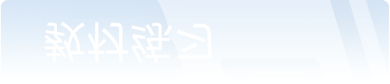
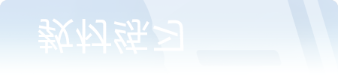
changeIcon

diff --git a/src/components/index/index-content-center.vue b/src/components/index/index-content-center.vue
@@ -68,14 +68,14 @@
         &::before {
           content: '';
           position: absolute;
-          bottom: -116px;
-          left: -5px;
-          width: 460px;
-          height: 100px;
+          bottom: -118px;
+          left: 0;
+          width: 450px;
+          height: 102px;
         }
         .icon {
           position: absolute;
-          width: 240px;
+          width: 266px;
           height: 188px;
           bottom: 0px;
           right: 0;
@@ -94,7 +94,7 @@
             bottom: 29px;
             width:100%;
             font-size:55px;
-            text-indent: 57px;
+            text-indent: 51px;
             font-family:MicrosoftYaHei;
             font-weight:400;
             font-weight: 600;
